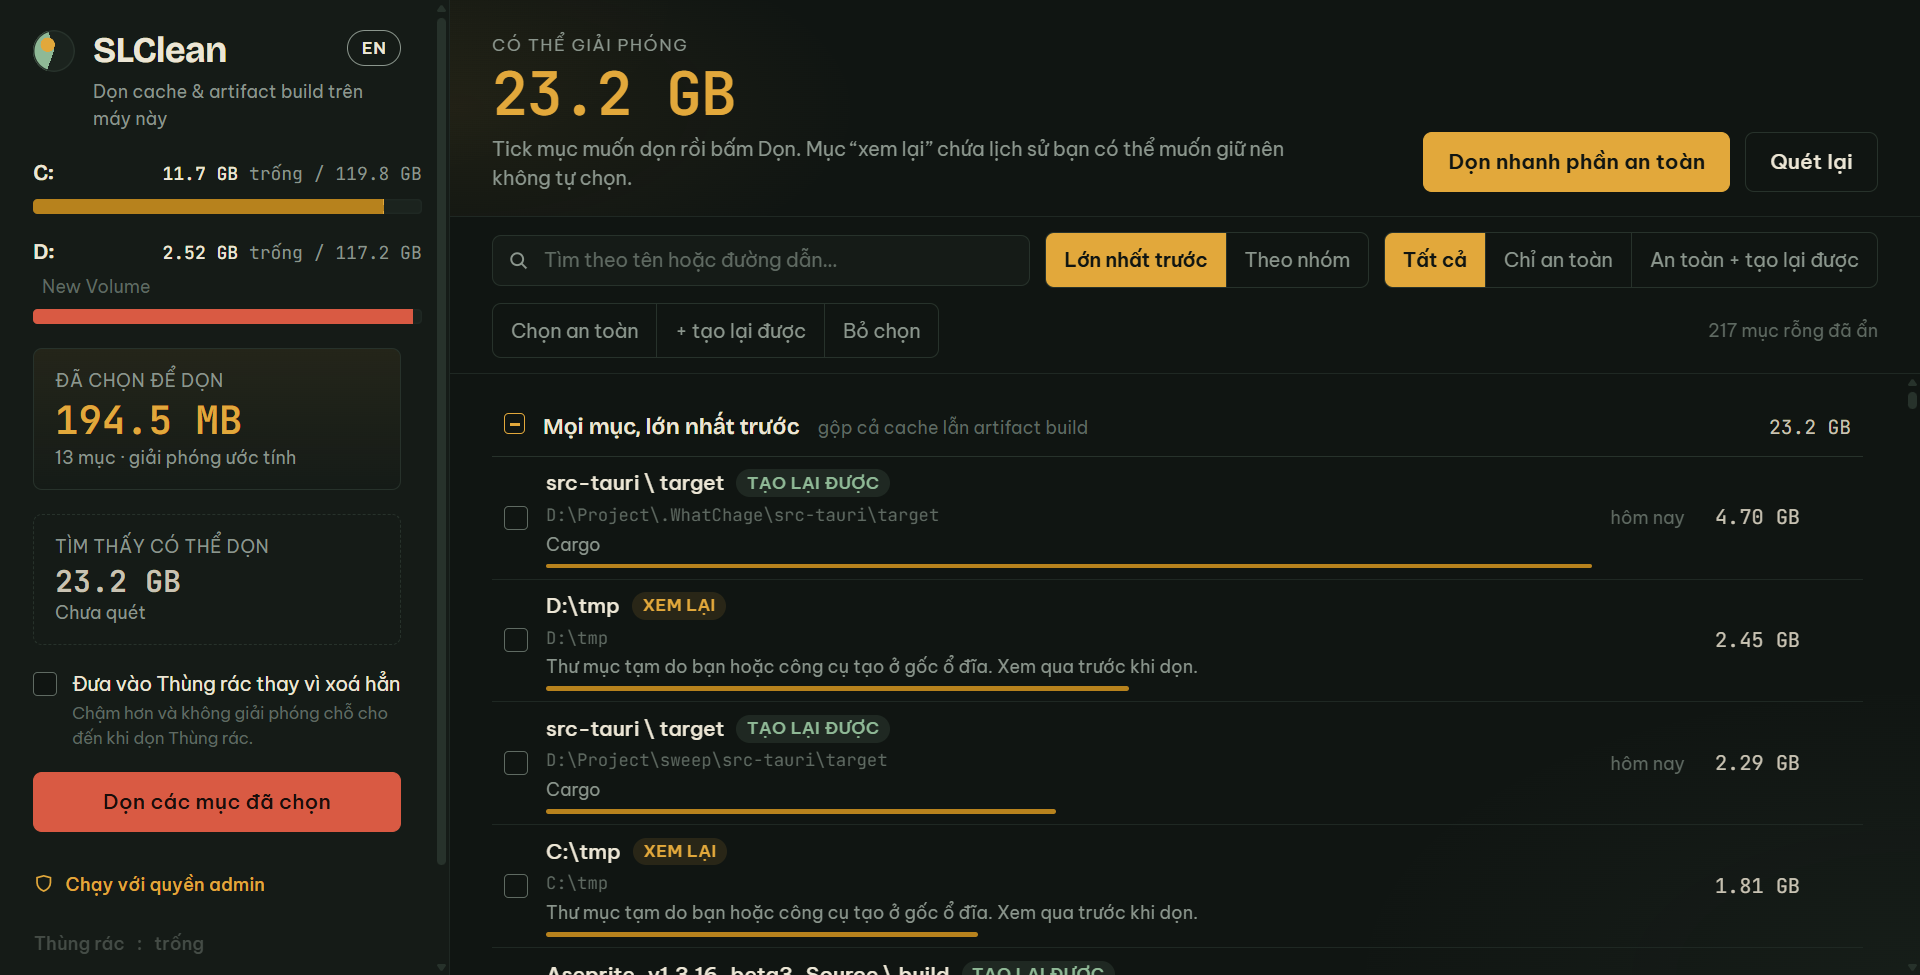
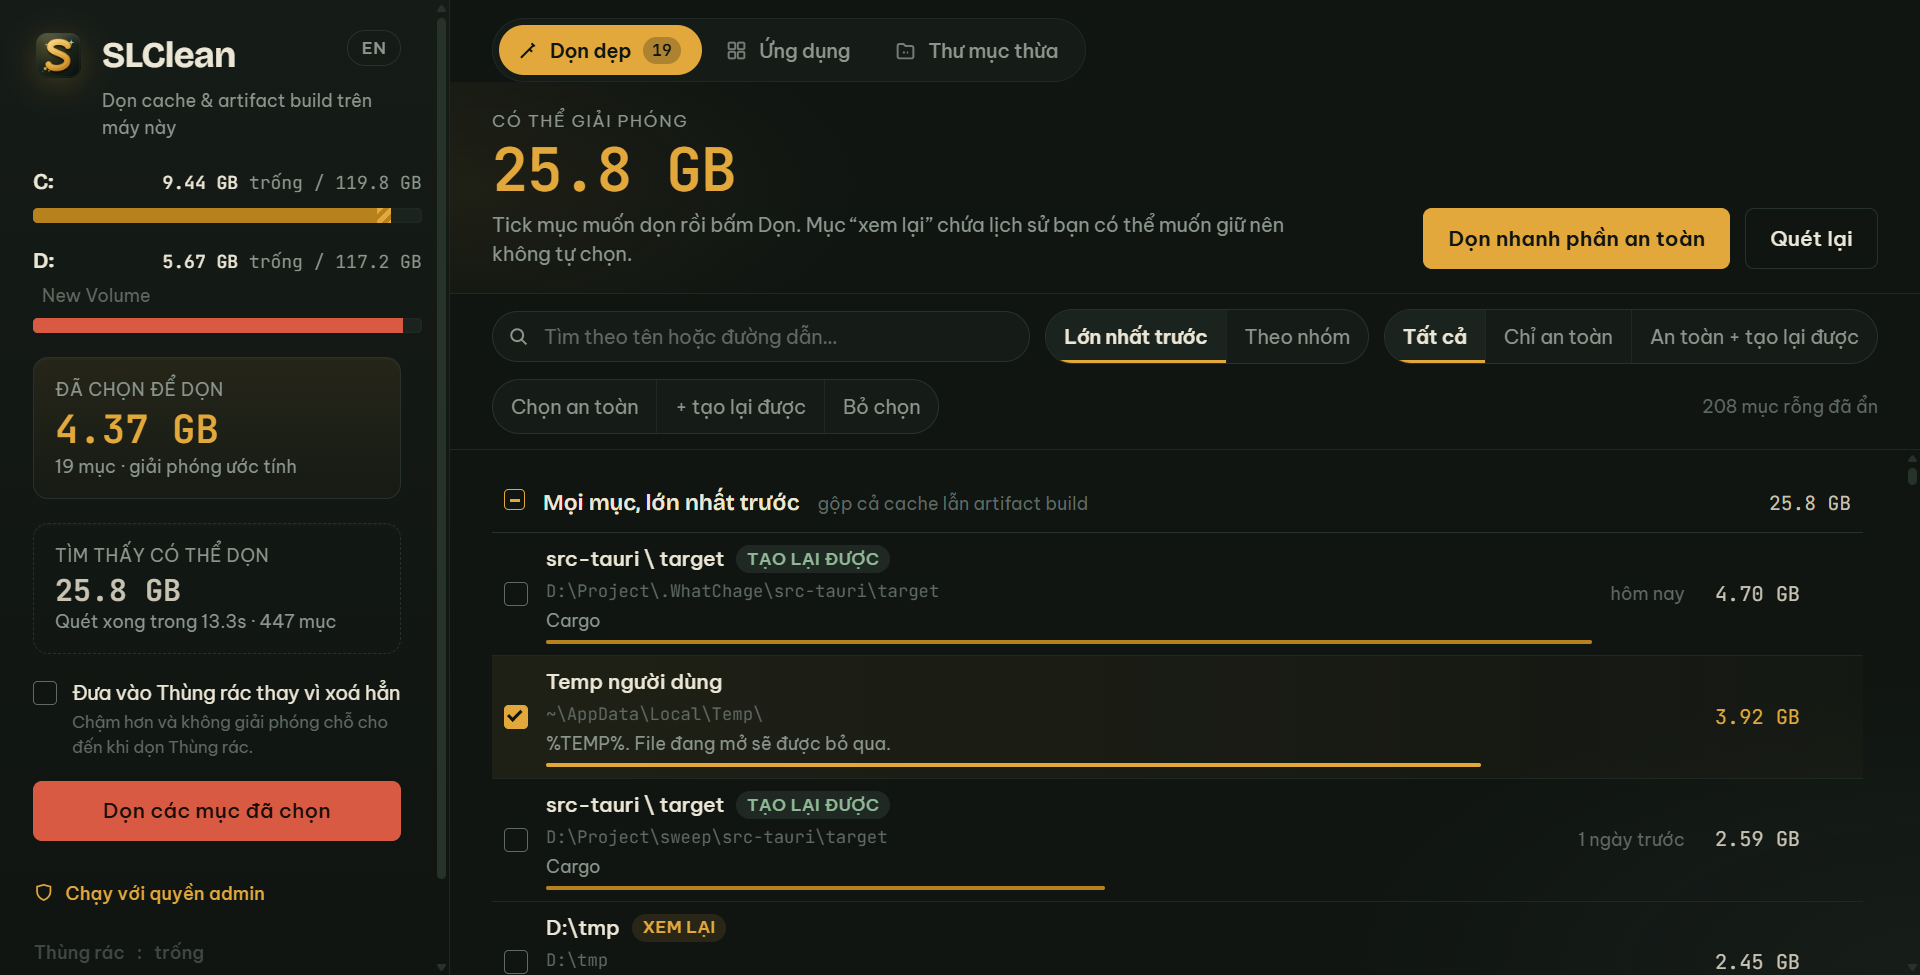
docs: restructure README around the three tabs with fresh 0.2.1 screenshots

diff --git a/README.md b/README.md
@@ -14,12 +14,45 @@ left behind by uninstalled apps. Tauri 2 + Rust desktop app, Vietnamese/English 
 is deleted until you tick it and confirm. Grab the installer or the portable exe from
 [Releases](../../releases); the binary is unsigned, so SmartScreen asks once.
 
-![SLClean sau khi quét](scripts/shots/slclean-real-vi.png)
+## Ba tab
 
-Ba tab: **Dọn dẹp** (cache, thư mục tạm, artifact build), **Ứng dụng** (mọi app đã cài với
-lần mở cuối, gỡ hoặc xoá mục chết) và **Thư mục thừa** (thư mục không app nào nhận).
+| Tab | Làm gì |
+|---|---|
+| **Dọn dẹp** | Cache, thư mục tạm và artifact build trên mọi ổ. Đo thật từng mục, phân loại theo mức an toàn. |
+| **Ứng dụng** | Mọi app đã cài kèm lần mở cuối theo Windows ghi. Gỡ app, hoặc xoá mục "chết" mà Settings không gỡ được. |
+| **Thư mục thừa** | Thư mục trong AppData/ProgramData/Program Files mà không app đã cài nào nhận. |
+
+### Dọn dẹp
+
+![Tab Dọn dẹp](scripts/shots/slclean-real-vi.png)
+
+Con số lớn là tổng tìm thấy, thanh trái là tổng đã tick. Không mục nào bị xoá cho tới khi bạn
+tick và bấm xác nhận; mục `xem lại` (có dữ liệu của bạn) không bao giờ tự tick.
+
+### Ứng dụng
 
 ![Tab Ứng dụng](scripts/shots/slclean-real-apps.png)
+
+Mỗi app có hãng, phiên bản, ngày cài, dung lượng thư mục cài **đo thật**, và lần mở cuối lấy
+từ nhật ký của chính Windows. Sắp theo lâu không mở / lớn nhất / mới cài / tên.
+
+Thành phần chạy nền (redistributable, runtime, SDK, driver, service, codec…) được tách thành
+nhóm riêng để không lẫn vào danh sách app đáng gỡ — trên máy thử, việc này đưa 24 mục ra khỏi
+nhóm "chưa từng mở", giảm 84 xuống 60:
+
+![Bộ lọc thành phần hệ thống](scripts/shots/slclean-real-apps-components.png)
+
+### Thư mục thừa
+
+![Tab Thư mục thừa](scripts/shots/slclean-real-leftovers.png)
+
+Thư mục app đã gỡ để lại. Tick rồi dọn bằng chính nút ở thanh trái, chung với mục cache.
+
+### Cài đặt
+
+![Hộp cài đặt](scripts/shots/slclean-settings.png)
+
+Ngôn ngữ, thư mục quét thêm hoặc loại trừ, và chế độ Thùng rác. Không có gì được gửi đi đâu.
 
 ## Chạy từ mã nguồn
 
@@ -232,7 +265,7 @@ scripts/
   e2e-trash-mode-roundtrip-in-real-app.mjs  dọn fixture có tick và không tick Thùng rác, đếm Thùng rác từ shell Windows
   make-throwaway-app-fixtures.ps1      mục Uninstall giả (một chết, một gỡ được) + thư mục mồ côi trong %LOCALAPPDATA%; -Remove để dọn
   e2e-apps-and-leftovers-in-real-app.mjs  xoá mục chết, gỡ app giả, dọn thư mục sót và thư mục mồ côi trên app thật; soi registry/đĩa sau mỗi bước
-  shoot-apps-and-leftovers-tabs-in-real-app.mjs  chụp hai tab mới trên app thật cho README
+  shoot-all-tabs-in-real-app.mjs       chụp mọi ảnh README trên app thật (ba tab vi, tab Dọn dẹp en, hộp cài đặt)
   make-release-bundles.ps1             build ra ổ khác, gom bộ cài + portable + SHA256SUMS vào release\
 ```
 
